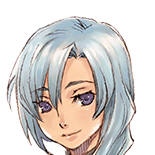
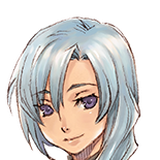
第八十六次：符文4 头像 27 张全部重标框，脸的大小与位置对齐
起因：同一页里头像忽大忽小。符文4 立绘有两种来源（官网 540x1098 全身彩图 /
wiki 解包 200x255 半身图），一半手标、一半走自动测量，标准不同，裁出来边长
92～224、脸占框 45%～80%。列表 2.1rem 圆形头像排下来非常明显。

四张是真的坏了（不只是不好看）：
- 玛格丽特：框整个偏到胸口，只剩右半张脸
- 雷斯特：框落在人物左侧的空白里，脸占不到四成
- 芙蕾：框顶在下巴上，只裁到额头到眼睛
- 波可莉奴：半身特写，自动测量把「头宽」量成整幅画布（side 224），
  脸被压到左下角
另修琥珀下巴贴框底被削、钠茜框越界 left=-14、瑟尔泽薇德 side 比画布还宽。

做法：
- 27 张全部改成手标 face_box（不再走 head_anchor）——官网立绘姿态太花
  （鱼竿、宽檐帽、盘腿坐、半身拿扇子），解包图又头顶贴画布上沿（y0=0），
  自动测量在这批图上本来就不该用
- 定规格：脸高约占框宽 65%、头顶留 6~8%，输出一律 160x160（exact_side）
- 新增两个工具：_rf4_zoom.py（源图放大＋原图像素网格，读头顶/下巴坐标）、
  _rf4_try2.py（多候选框并排试裁，一次看六位）

代价：assets/face/rf4 从 950KB 到 1.37MB，单文件版 11.1MB→11.9MB。

校验：node _verify.js 352 实例 0 异常；头像 8 作 214 张缺 0；27 张均 160x160

diff --git a/_shot.html b/_shot.html
@@ -1,0 +1,141 @@
+<!DOCTYPE html>
+<html lang="zh-Hans">
+
+<head>
+    <meta charset="UTF-8">
+    <meta name="viewport" content="width=device-width, initial-scale=1.0, viewport-fit=cover">
+    <meta name="theme-color" content="#ffffff">
+    <meta name="description" content="符文工房（Rune Factory）系列中文资料站：世界观设定、牧场生活、战斗与生产系统、各作角色与系列作品一览。">
+    <meta name="keywords" content="符文工房,符文工厂,Rune Factory,ルーンファクトリー,攻略,世界观,设定">
+    <title>符文工房攻略百科</title>
+    <link rel="icon" href="assets/icon/favicon.ico" sizes="16x16 32x32 48x48">
+    <link rel="icon" type="image/png" href="assets/icon/icon-192.png" sizes="192x192">
+    <link rel="apple-touch-icon" href="assets/icon/apple-touch-icon.png">
+    <script>
+    (function(){var g=(location.search.match(/[?&]g=([a-z0-9]+)/)||[])[1]||'rf4';
+    var o={};try{o=JSON.parse(localStorage.getItem('rf_wiki_v1')||'{}')}catch(e){}
+    o.game=g;localStorage.setItem('rf_wiki_v1',JSON.stringify(o));})();
+    </script>
+    <link rel="stylesheet" href="css/main.css">
+    <link rel="stylesheet" href="css/content.css">
+</head>
+
+<body>
+    <div id="app">
+        <header class="titlebar">
+            <button class="back" id="backBtn" aria-label="返回">
+                <svg viewBox="0 0 24 24" fill="none" stroke="currentColor" stroke-width="1.7"
+                    stroke-linecap="round" stroke-linejoin="round">
+                    <path d="M15 5.2 8 12l7 6.8" />
+                </svg>
+            </button>
+            <div id="titleText">符文工房攻略百科</div>
+            <button class="tsearch" id="searchBtn" aria-label="搜索条目">
+                <svg viewBox="0 0 24 24" fill="none" stroke="currentColor" stroke-width="1.7"
+                    stroke-linecap="round" stroke-linejoin="round">
+                    <circle cx="10.6" cy="10.6" r="6.2" />
+                    <path d="M15.3 15.3 20 20" />
+                </svg>
+            </button>
+            <a class="mark" id="mark" href="#/" title="返回站点主页">WIKI</a>
+        </header>
+
+        <main class="main" id="main"></main>
+
+        <nav class="tabbar">
+            <a href="#/wiki" data-tab="wiki">
+                <svg viewBox="0 0 24 24" fill="none" stroke="currentColor" stroke-width="1.65"
+                    stroke-linecap="round" stroke-linejoin="round">
+                    <path d="M3 10.6 12 3.4l9 7.2V20a1.2 1.2 0 0 1-1.2 1.2H4.2A1.2 1.2 0 0 1 3 20z" />
+                    <path d="M9.4 21.2v-6.3h5.2v6.3" />
+                </svg>
+                <div>攻略</div>
+            </a>
+            <a href="#/resident" data-tab="resident">
+                <svg viewBox="0 0 24 24" fill="none" stroke="currentColor" stroke-width="1.65"
+                    stroke-linecap="round" stroke-linejoin="round">
+                    <circle cx="9" cy="8.2" r="3.3" />
+                    <path d="M2.8 20.4c0-3.1 2.8-5.3 6.2-5.3s6.2 2.2 6.2 5.3" />
+                    <path d="M16.2 5.4a3 3 0 0 1 0 5.9" />
+                    <path d="M17.4 15.4c2.3.5 3.9 2.2 3.9 5" />
+                </svg>
+                <div>居民</div>
+            </a>
+            <a href="#/todo" data-tab="todo">
+                <svg viewBox="0 0 24 24" fill="none" stroke="currentColor" stroke-width="1.65"
+                    stroke-linecap="round" stroke-linejoin="round">
+                    <path d="M18 8.6a6 6 0 1 0-12 0c0 5.2-2 6.7-2 6.7h16s-2-1.5-2-6.7" />
+                    <path d="M13.7 19.2a2 2 0 0 1-3.4 0" />
+                </svg>
+                <div>提醒</div>
+            </a>
+            <a href="#/setting" data-tab="setting">
+                <svg viewBox="0 0 24 24" fill="none" stroke="currentColor" stroke-width="1.65"
+                    stroke-linecap="round" stroke-linejoin="round">
+                    <circle cx="12" cy="12" r="3.1" />
+                    <path d="M12 2.6v2.8M12 18.6v2.8M2.6 12h2.8M18.6 12h2.8M5.4 5.4l2 2M16.6 16.6l2 2M18.6 5.4l-2 2M7.4 16.6l-2 2" />
+                </svg>
+                <div>设置</div>
+            </a>
+        </nav>
+    </div>
+
+    <script src="js/icons.js"></script>
+    <script src="js/data.js"></script>
+    <script src="js/monsters.js"></script>
+    <script src="js/mon4.js"></script>
+    <script src="js/monrfo.js"></script>
+    <script src="js/rfomon.js"></script>
+    <script src="js/mon3.js"></script>
+    <script src="js/boss.js"></script>
+    <script src="js/recipes.js"></script>
+    <script src="js/recipes4.js"></script>
+    <script src="js/fish.js"></script>
+    <script src="js/fish_old.js"></script>
+    <script src="js/resist.js"></script>
+    <script src="js/resist4.js"></script>
+    <script src="js/items.js"></script>
+    <script src="js/items4.js"></script>
+    <script src="js/rf1data.js"></script>
+    <script src="js/rf1mon.js"></script>
+    <script src="js/rf1term.js"></script>
+    <script src="js/rf2data.js"></script>
+    <script src="js/rf2cal.js"></script>
+    <script src="js/rffdata.js"></script>
+    <script src="js/rffmon.js"></script>
+    <script src="js/rffterm.js"></script>
+    <script src="js/cnterm.js"></script>
+    <script src="js/rf3data.js"></script>
+    <script src="js/rf3cal.js"></script>
+    <script src="js/rf5cal.js"></script>
+    <script src="js/rf5cook.js"></script>
+    <script src="js/rf4cook.js"></script>
+    <script src="js/rffcook.js"></script>
+    <script src="js/rfocook.js"></script>
+    <script src="js/rf1cook.js"></script>
+    <script src="js/rf2cook.js"></script>
+    <script src="js/rf3cook.js"></script>
+    <script src="js/rf3recipes.js"></script>
+    <script src="js/festmore.js"></script>
+    <script src="js/extradata.js"></script>
+    <script src="js/npcdata.js"></script>
+    <script src="js/fishspot.js"></script>
+    <script src="js/fishspot4.js"></script>
+    <script src="js/cropdata.js"></script>
+    <script src="js/rffcrop.js"></script>
+    <script src="js/crop5.js"></script>
+    <script src="js/crop1.js"></script>
+    <script src="js/rf3weapon.js"></script>
+    <script src="js/weapon_old.js"></script>
+    <script src="js/mat_rf3.js"></script>
+    <script src="js/pot_old.js"></script>
+    <script src="js/fxdata.js"></script>
+    <script src="js/npcfull.js"></script>
+    <script src="js/faces.js"></script>
+    <script src="js/sched.js"></script>
+    <script src="js/azuma.js"></script>
+    <script src="js/pages.js"></script>
+    <script src="js/app.js"></script>
+</body>
+
+</html>

diff --git a/js/pages.js b/js/pages.js
@@ -4877,6 +4877,16 @@ const PAGES = [
     {
         key: 'changelog', group: 'lore', title: '更新日志', icon: 'note',
         body: () => `
+            <h2 class="h2">2026-10-29　第八十六次：符文4 的 27 张头像重新标框，脸的大小对齐了</h2>
+            <ul class="ul">
+                <li class="li"><b>起因是「同一个页面里头像大小不一」</b>：符文4 的立绘有两种来源——官网那批 540x1098 的全身彩图，和 wiki 上解包的 200x255 半身图。前一批是手工标框的，后一批走自动测量，两边标准不同，裁出来边长从 92 到 224 都有；脸占框的比例更乱，从 45% 到 80%。列表里 2.1rem 的圆形头像排下来，有的人脸撑满圆圈，有的人一张小脸浮在中间。</li>
+                <li class="li"><b>四张是真的坏了，不只是不好看</b>：玛格丽特的框整个偏到了胸口，裁出来只剩右半张脸；雷斯特的框落在人物左侧的空白里，脸只占框的四成；芙蕾的框顶在下巴上，只有额头到眼睛；波可莉奴本来就走自动测量，半身特写的「头宽」量成了整幅画布（side 224），脸被压到左下角。另外琥珀的下巴正好压在框底、被削掉一线。</li>
+                <li class="li"><b>自动测量在这批图上本来就不该用</b>：官网立绘的姿态太花——迪拉斯手上斜着一根鱼竿、朵儿洁顶着宽檐帽、奇尔盘腿坐着、两位主角半身还拿扇子和围巾，包围盒全被道具带跑；解包那批人物头顶直接贴着画布上沿（y0=0），band 量出来的「头宽」其实就是画布宽，钠茜那几张甚至算出 <code>left=-14</code>。<b>这次就一个不剩，27 张全部手标</b>，坐标写在 <code>_build_faces.py</code> 的 <code>face_box</code> 里。</li>
+                <li class="li"><b>顺带定了一条规格</b>：脸高约占框宽的 <b>65%</b>，头顶留 6～8%。输出一律 <b>160x160</b>（详情页头像 5.4rem，2x 屏要 172px，160 够用），不足的放大补齐。以后补新角色按这个比例标就行，不会再出现「一张脸大一张脸小」。</li>
+                <li class="li"><b>改了三个工具留在仓库里</b>：<code>_rf4_zoom.py</code>（源图放大＋原图像素网格，用来读头顶、下巴、脸中心的坐标）、<code>_rf4_try2.py</code>（同一角色多个候选框并排试裁，一次看六位）。标框时别凭换算，直接看裁出来的样子最快。</li>
+                <li class="li"><b>代价</b>：<code>assets/face/rf4/</code> 从 950KB 涨到 1.37MB，单文件版从 11.1MB 到 11.9MB。换来的是同一页 27 张脸一样大。</li>
+                <li class="li"><b>校验</b>：<code>node _verify.js</code> → 页面实例 352、异常 0；头像 8 作 214 张、缺 0。</li>
+            </ul>
             <h2 class="h2">2026-10-29　第八十五次：村民喜好扩到七作全线，生日排成一张全年表</h2>
             <ul class="ul">
                 <li class="li"><b>这一页此前只有符文4／5</b>：两作靠解包表，带 FP 数值与四档清单，但另外五作（符文1／2／3／边境／海洋）在站内<b>根本没有「村民喜好」这一页</b>——查某个人喜欢什么，只能进他的人物档案，一个一个点。这次把这一页的适用范围接到七作，缺的是<b>页面</b>，不是数据。</li>

diff --git a/_build_faces.py b/_build_faces.py
@@ -225,32 +225,55 @@ CONF = {
         'merge_case': False,
         'groups': RF4_GROUPS,
         'over': {},
-        # 官网这 14 张姿态花（鱼竿、宽檐帽、盘腿坐），自动测量会被道具带跑：
-        # 迪拉斯的框会跑到鱼竿上、朵儿洁量到帽檐、奇尔盘腿坐时头顶在半图高，
-        # 两位主角的立绘则是半身带道具，量出来的「头宽」其实是扇子/围巾。
-        # 所以全部 14 位直接标「框在哪」——(左上角 x, 左上角 y, 边长)，原图像素。
-        # 先在 400 宽预览图上目测，再由 _rf4_box.py 按各图实际宽度换算回原图。
+        # 27 位全部手标「框在哪」——(左上角 x, 左上角 y, 边长)，原图像素。
+        #
+        # 为什么一个不剩全手标：自动测量（head_anchor）对这批图不可靠。符文4 的
+        # 立绘有两套规格——官网那批 540x1098 全身彩图，和 wiki 上解包的
+        # 200x255 半身图。前者的姿态花得离谱：迪拉斯手上斜着一根鱼竿、朵儿洁
+        # 顶着宽檐帽、奇尔盘腿坐着、两位主角半身还拿扇子围巾，包围盒全被道具
+        # 带跑；后者人物头顶直接贴画布上沿（y0=0），band 量出来的「头宽」其实
+        # 是画布宽，钠茜那几张甚至算出 left=-14 把右半张脸裁掉。
+        #
+        # 另一件事是**脸的占比**。这批裁出来脸占框的比例从 45% 到 80% 都有，
+        # 同一页排下来有的人脸撑满圆圈、有的人一张小脸浮在中间。2026-10-29
+        # 这轮统一收到「脸高约占框宽 65%」，2.1rem 的圆形列表头像才不会一半
+        # 看不清五官。以后新增角色，照这个比例标就行。
         'face_box': {
-            'レスト':       ( 31,   6,  95),
-            'フレイ':       ( 83,  20,  90),
-            'マーガレット': (135, 162, 135),
-            'コハク':       (155, 223, 176),
+            'レスト':       (76, 58, 88),
+            'フレイ':       (100,  68,  92),
+            'マーガレット': (208, 181, 153),
+            'コハク':       (190, 250, 150),
             'ビシュナル':   (189, 122, 155),
-            'ディラス':     (196, 162, 148),
+            'ディラス':     (181, 121, 207),
             'フォルテ':     (321,  62, 214),
-            'ドルチェ':     (138,  90, 180),
-            'アーサー':     (159, 159, 135),
+            'ドルチェ':     (152, 96, 153),
+            'アーサー':     (182, 159, 145),
             'キール':       (196, 310, 148),
-            'シャオパイ':   (202, 155, 216),
+            'シャオパイ':   (242, 143, 179),
             'クローリカ':   (142, 202, 162),
-            'ダグ':         (196, 173, 135),
-            'レオン':       (196, 142, 176),
+            'ダグ':         (202, 179, 124),
+            'レオン':       (204, 123, 180),
+            'ヴォルカノン': ( 48,   4,  97),
+            'バド':         ( 46,   0, 104),
+            'ポコリーヌ':   ( 52,   8, 120),
+            'リンファ':     ( 44,   8,  94),
+            'エルミナータ': (55, 0, 116),
+            'ブロッサム':   ( 36,   9, 101),
+            'ジョーンズ':   (42, 0, 99),
+            'ナンシー':     ( 14,   6,  92),
+            'セルザウィード': ( 17,  23, 146),
+            'バレット':     (  3,   0, 128),
+            'トゥーナ':     ( 27,   5, 100),
+            'ノエル':       (  5,   5,  98),
+            'ルーナ':       ( 16,  12,  88),
         },
         # 两批都是全身立绘：官网那批 540x1089、解包那批 200x255，头都只占身高一小截
         'band_scale': True,
         # 官网这批姿态花（鱼竿、宽檐帽、盘腿坐），得先剔掉细长装饰再量
         'robust_band': True,
         'max_side': 160,
+        # 输出一律 160x160（不足的放大），别让同一页里头像忽大忽小
+        'exact_side': True,
     },
 }
 
@@ -423,8 +446,11 @@ def main():
             tile = cut(im, y, c, w, over, chk, box if pos == 0 else None)
             # 符文3 官网立绘裁出来有 224px，比符号1／2 的（92~224）大一圈，
             # 列表里 33px、详情页 64px 都用不到这么多像素，压到 160 省一半体积
+            # 符文4 用 exact_side：源图两种规格（官网 540x1098 全身、解包 200x255
+            # 半身），裁出来的边长从 92 到 224 不等，不统一的话同一个页面里头像
+            # 一个比一个大。全部落到 160（详情页 5.4rem 在 2x 屏要 172，够用）。
             cap = conf.get('max_side')
-            if cap and tile.width > cap:
+            if cap and (tile.width > cap or conf.get('exact_side')):
                 tile = tile.resize((cap, cap), Image.LANCZOS)
             name = f'{key}.png' if pos == 0 else f'{key}_{idx:02d}.png'
             tile.save(os.path.join(out, name))

diff --git a/_rf4_zoom.py b/_rf4_zoom.py
@@ -1,0 +1,68 @@
+# -*- coding: utf-8 -*-
+"""单张源图放大 + 原图像素网格，用于目测定 face_box。
+
+用法：python _rf4_zoom.py マーガレット フレイ [--h 800] [--grid 25]
+输出：G:/wit_tools/work/_zoom_src.png
+"""
+import os
+import sys
+from PIL import Image, ImageDraw
+
+SRC = r'G:/wit_tools/work/_rf3/_face_rf4_src'
+OUT = r'G:/wit_tools/work/_zoom_src.png'
+
+
+def main():
+    args = [a for a in sys.argv[1:] if not a.startswith('--')]
+    h = 800
+    grid = 25
+    for a in sys.argv[1:]:
+        if a.startswith('--h='):
+            h = int(a.split('=')[1])
+        if a.startswith('--grid='):
+            grid = int(a.split('=')[1])
+    ims = []
+    for n in args:
+        p = os.path.join(SRC, n + '.png')
+        im = Image.open(p).convert('RGBA')
+        s = h / im.size[1]
+        im = im.resize((int(im.size[0] * s), h), Image.LANCZOS)
+        ims.append((n, im, s))
+    W = sum(i.size[0] for _, i, _ in ims) + 20 * (len(ims) + 1)
+    H = h + 40
+    sheet = Image.new('RGBA', (W, H), (250, 250, 250, 255))
+    d = ImageDraw.Draw(sheet)
+    x = 20
+    for n, im, s in ims:
+        # 棋盘格
+        for yy in range(0, h, 16):
+            for xx in range(0, im.size[0], 16):
+                if (xx // 16 + yy // 16) % 2 == 0:
+                    d.rectangle([x + xx, 40 + yy, x + xx + 15, 40 + yy + 15], fill=(228, 228, 228, 255))
+        sheet.paste(im, (x, 40), im)
+        d.text((x, 4), n, fill=(180, 0, 0, 255))
+        for gx in range(0, int(im.size[0] / s) + 1, grid):
+            px = x + gx * s
+            if px > x + im.size[0]:
+                break
+            major = (gx % (grid * 4) == 0)
+            d.line([(px, 40), (px, 40 + h)], fill=(255, 90, 90, 160) if major else (185, 185, 185, 130), width=1)
+            if major:
+                d.text((px + 1, 42), str(gx), fill=(0, 100, 200, 255))
+        for gy in range(0, int(h / s) + 1, grid):
+            py = 40 + gy * s
+            if py > 40 + h:
+                break
+            major = (gy % (grid * 4) == 0)
+            d.line([(x, py), (x + im.size[0], py)], fill=(255, 90, 90, 160) if major else (185, 185, 185, 130), width=1)
+            if major:
+                d.text((x + 2, py + 1), str(gy), fill=(0, 100, 200, 255))
+        x += im.size[0] + 20
+    sheet.save(OUT)
+    print('written', OUT, sheet.size)
+    for n, im, s in ims:
+        print(n, 'src', int(im.size[0] / s), 'x', int(h / s))
+
+
+if __name__ == '__main__':
+    main()

diff --git a/_rf4_try2.py b/_rf4_try2.py
@@ -1,0 +1,47 @@
+# -*- coding: utf-8 -*-
+"""符文4 头像候选框批量试裁（多角色 × 多候选，一张图看完）。
+
+用法：
+    python _rf4_try2.py "マーガレット:135,150,200|163,172,188" "フレイ:103,62,102|100,55,110"
+输出：G:/wit_tools/work/_try.png
+"""
+import os
+import sys
+from PIL import Image, ImageDraw
+
+SRC = r'G:/wit_tools/work/_rf3/_face_rf4_src'
+OUT = r'G:/wit_tools/work/_try.png'
+CELL = 180
+GAP = 10
+
+
+def main():
+    items = []
+    for a in sys.argv[1:]:
+        name, rest = a.split(':', 1)
+        boxes = [tuple(int(v) for v in b.split(',')) for b in rest.split('|')]
+        items.append((name, boxes))
+    cols = max(len(b) for _, b in items)
+    W = GAP + cols * (CELL + GAP)
+    H = GAP + len(items) * (CELL + 26 + GAP)
+    sheet = Image.new('RGBA', (W, H), (245, 245, 245, 255))
+    d = ImageDraw.Draw(sheet)
+    for r, (name, boxes) in enumerate(items):
+        im = Image.open(os.path.join(SRC, name + '.png')).convert('RGBA')
+        for c, (l, t, s) in enumerate(boxes):
+            tile = im.crop((l, t, l + s, t + s)).resize((CELL, CELL), Image.LANCZOS)
+            x = GAP + c * (CELL + GAP)
+            y = GAP + r * (CELL + 26 + GAP)
+            for yy in range(0, CELL, 14):
+                for xx in range(0, CELL, 14):
+                    if (xx // 14 + yy // 14) % 2 == 0:
+                        d.rectangle([x + xx, y + 16 + yy, x + xx + 13, y + 16 + yy + 13], fill=(222, 222, 222, 255))
+            sheet.paste(tile, (x, y + 16), tile)
+            d.rectangle([x, y + 16, x + CELL, y + 16 + CELL], outline=(210, 210, 210, 255))
+            d.text((x, y + 2), '%s %d: %s' % (name[:6], c + 1, (l, t, s)), fill=(0, 0, 0, 255))
+    sheet.save(OUT)
+    print('written', OUT, sheet.size)
+
+
+if __name__ == '__main__':
+    main()

diff --git a/_GAP_LIST.md b/_GAP_LIST.md
@@ -93,3 +93,5 @@
 - [x] 启动 ⑤ azuma 魔物喜好表（2026-10-29 完成：azuma.js+pages.js azuma_mon 页，122 种，源 gametoeasy 中文攻略；人物名册 azuma 经核实 data.js chars 已存，矩阵同步更正）
 - [x] 推进 ⑥ 喜好专页扩七作（2026-10-29 完成：npcgift gms 扩到七作 + giftPage 通用分支，数据复用 npcfull.js 零新增）
 - [x] **更新日志页断档已补**（2026-10-29）：`pages.js` 的 changelog 正文此前停在第六十八次，第 69～83 次共 15 条（钓点三作、BOSS 两作、azuma 三件、头像六批、脚本收编、缺口清单复核）已按 `git log` 逐条回填，并补记第八十四次（首页作品卡配图）与第八十五次（本轮）；首页「最近更新」现已连续显示 85／84／83
+- [x] 推进 ⑦ 符文4 头像重标（2026-10-29 完成：27 张全部改手标 `face_box`，脸占比统一到约 65%，输出统一 160×160；修掉 4 张真坏的——玛格丽特半张脸、雷斯特脸只占四成、芙蕾切下巴、波可莉奴偏到左下角）
+- [ ] **其余六作头像规格仍未统一**：符文4 已统一 160×160，但 rf1 还是 83～107px、rf2 105～116px、rf5 64/128px 混排，rf3 有 5 张非 160。列表 2.1rem／详情 5.4rem 在 2x 屏下 64px 会发虚。若照符文4 的口径（脸占框 65%、输出 160），需要按作重新标框，工作量比符文4 小（那几作立绘规整，自动测量基本可用，主要是补 `exact_side`）
